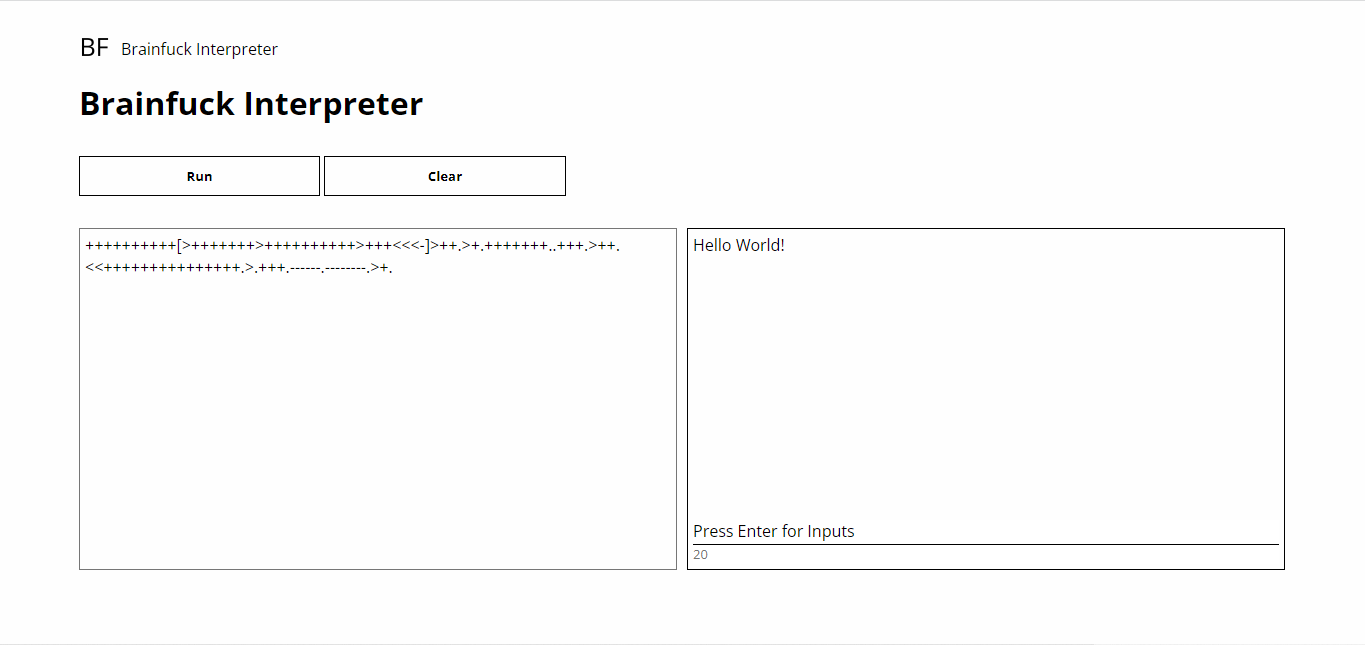
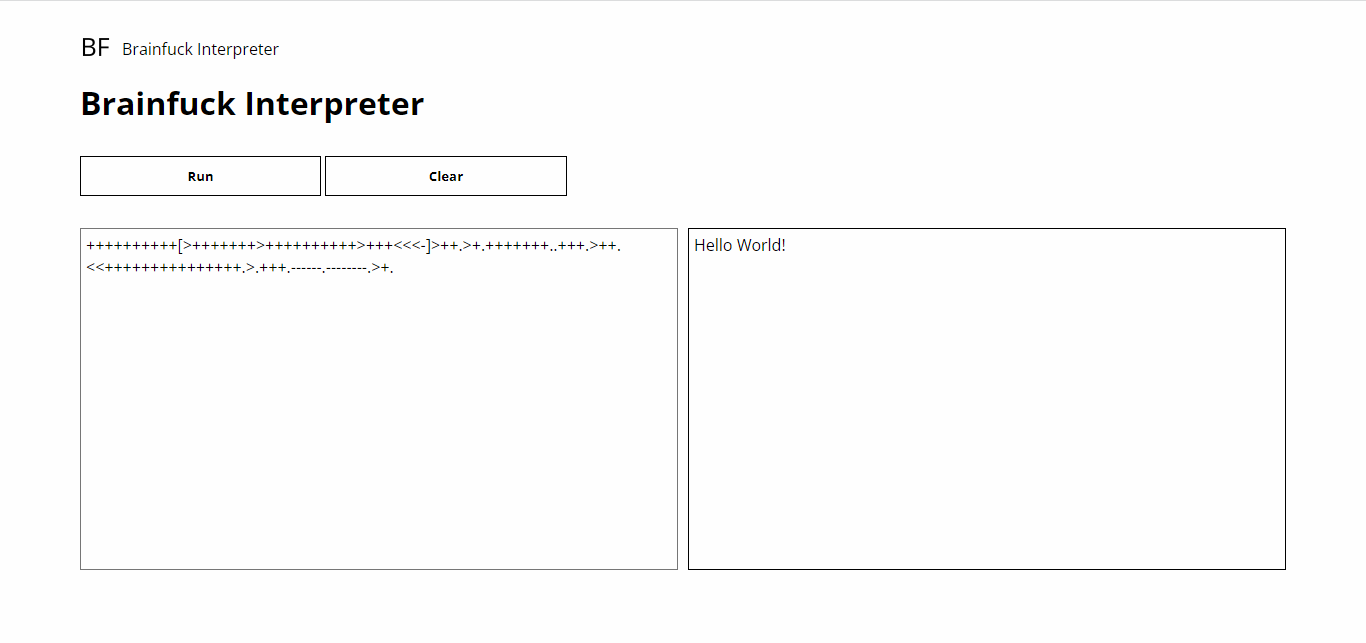
upload new image

diff --git a/index.html b/index.html
@@ -40,12 +40,7 @@
             <section id="outputArea">
                 <div id="result">
                     Result will display here
-                </div>
-
-                <section id="inputsArea">
-                    <label for="input">Press Enter for Inputs</label>
-                    <input id="input" type="text" placeholder="20">
-                </section>
+                </div>                 
             </section>
         </section>
     </main>
